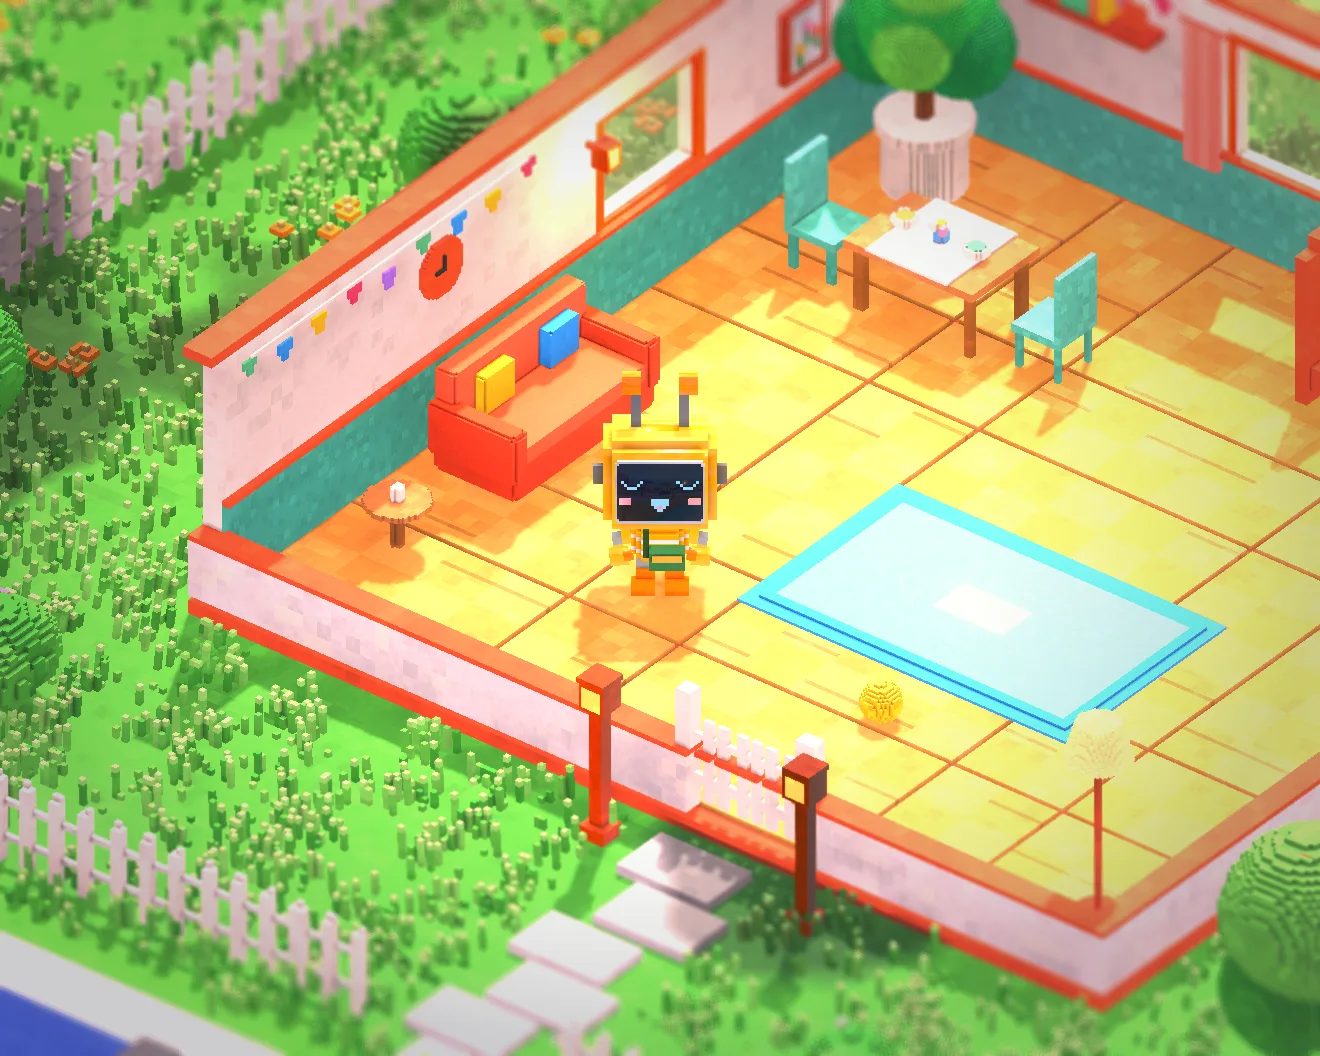
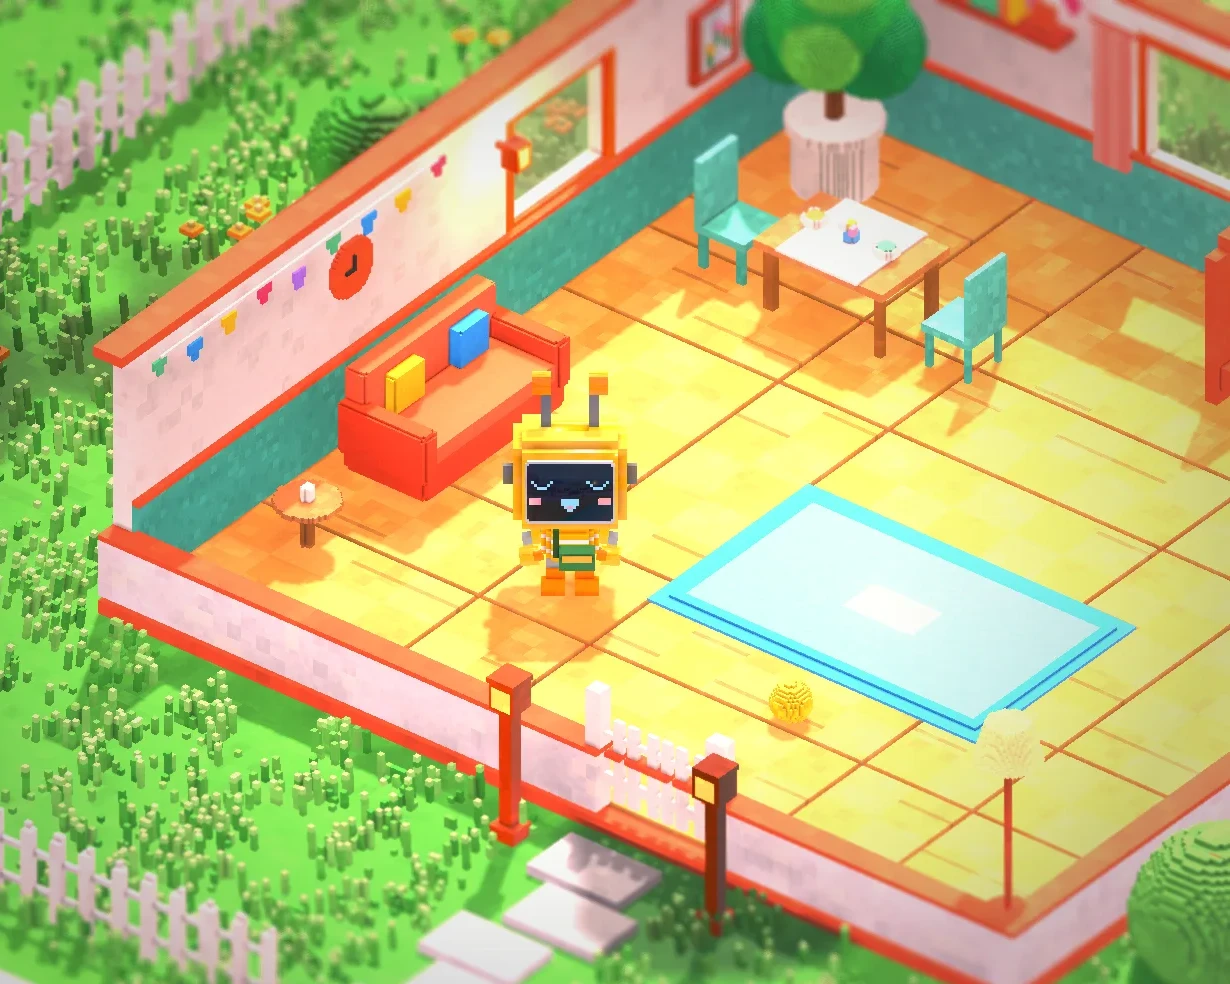
Kinbits: hero keeps one shape on phones and tablets, phone clear of the Kinbit, scene without the cut-off pond

diff --git a/kinbits/index.html b/kinbits/index.html
@@ -7,7 +7,7 @@
 <meta name="description" content="Raise a tiny family. Hatch a Kinbit, dress it up, take it on day trips, and watch it start a family of its own. Coming soon to iOS and Android.">
 <link rel="icon" type="image/png" href="img/icon.png">
 <link rel="apple-touch-icon" href="img/apple-touch-icon.png">
-<link rel="preload" as="image" href="img/room-home.webp">
+<link rel="preload" as="image" href="img/room-home.webp?v=2">
 <meta property="og:type" content="website">
 <meta property="og:title" content="Kinbits">
 <meta property="og:description" content="Raise a tiny family. Hatch a Kinbit, dress it up, and watch it start a family of its own.">
@@ -235,9 +235,10 @@
     .hero .wrap, .join .wrap { grid-template-columns: 1fr; gap: 44px; }
     .hero .copy { text-align: center; }
     /* phones: the game scene runs the full width, and the playing phone is big, in front of its lower left */
-    .show { max-width: 640px; margin: 0 auto; width: 100%; padding: 0 0 min(44%, 210px) 0; }
+    /* the box keeps one shape at every width: the phone always sits over the scene's lower right, clear of the Kinbit, and ends 12% below it */
+    .show { max-width: 640px; margin: 0 auto; width: 100%; padding: 0; aspect-ratio: 50 / 46; }
     .show .scene { border-radius: 32px; }
-    .hero-phone { width: min(44%, 200px); left: 5%; }
+    .hero-phone { width: 40%; left: auto; right: 5%; }
     .reel { justify-content: flex-start; }
     .reel figure { flex-basis: 220px; }
     .hero .logo { margin: 24px auto 28px; }
@@ -288,7 +289,7 @@
       <a class="btn rise" style="--d:.3s" id="hero-btn" href="#waitlist">Join the waitlist</a>
     </div>
     <div class="show rise" style="--d:.1s">
-      <div class="scene"><img src="img/room-home.webp" alt="A yellow Kinbit at home in its sunny room, with a red sofa, a pool, and a garden outside" width="1320" height="1056"></div>
+      <div class="scene"><img src="img/room-home.webp?v=2" alt="A yellow Kinbit at home in its sunny room, with a red sofa, a pool, and a garden outside" width="1230" height="984"></div>
       <div class="phone hero-phone"><video src="img/clip-homes.mp4" poster="img/clip-homes.webp" muted loop playsinline autoplay preload="auto" aria-label="The game playing on a phone: a Kinbit at home, then in a treehouse, an arcade, a home under the sea, a space station, a greenhouse, a playground, and a workshop"></video></div>
     </div>
   </div>
